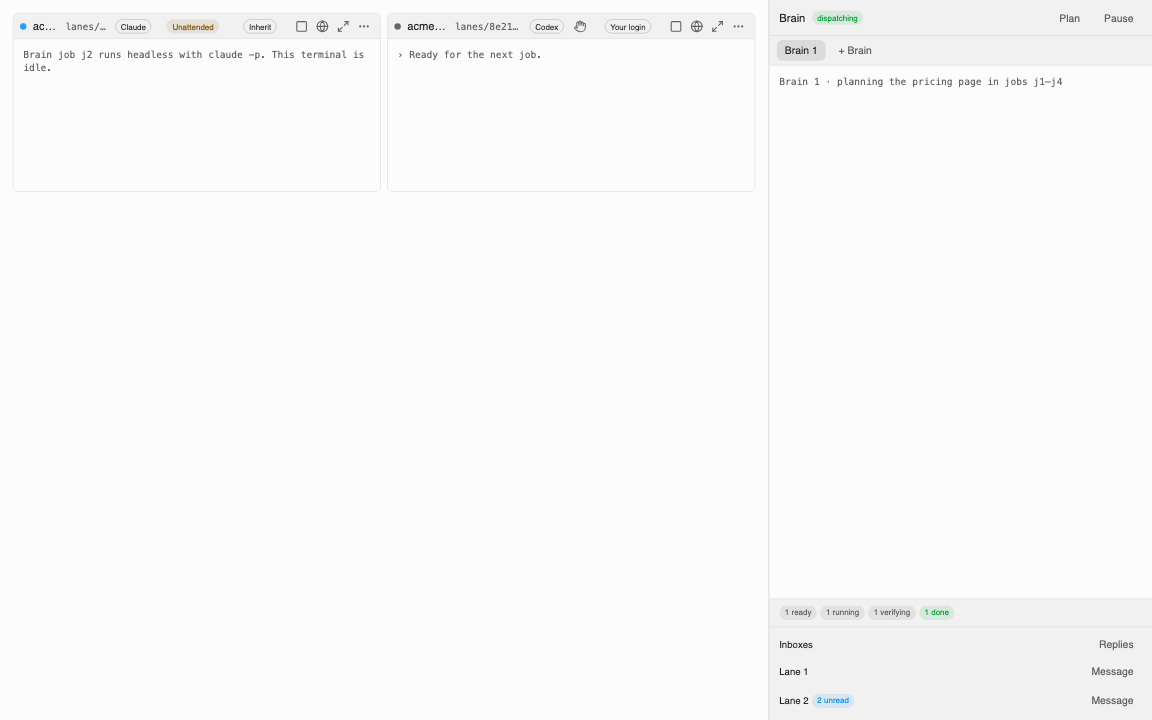
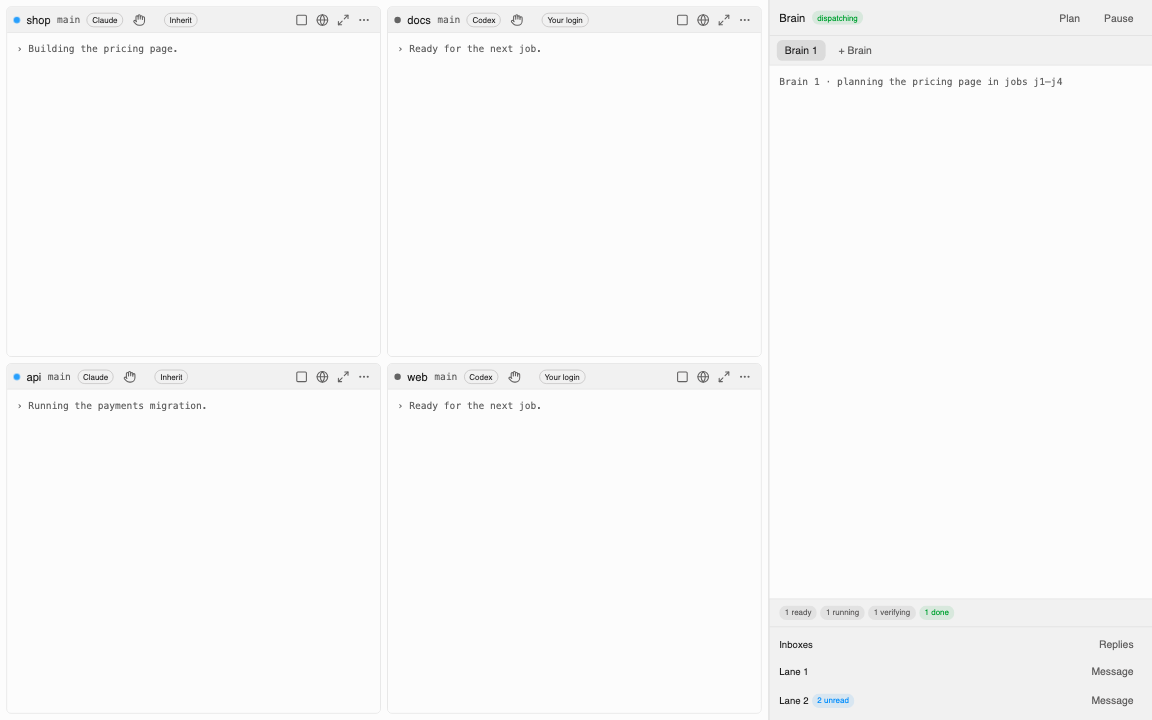
fix(screenshots): fill the Brain drawer backdrop with a real 2x2 lane grid
6e9d17e1b's corrected CSS made brain-drawer-plan-1440's two-lane backdrop
render as an accurate 2-column row, but that also exposed how little
vertical space two lanes fill: roughly 70% of the backdrop was blank.

lanes-grid-layout.tsx shows the real lane grid is always a fixed 2x2 of
slots, not a responsive column count, so two lanes were never the right
picture at 1440 in the first place. Add a FourLanes fixture that fills
all four slots, which is what the app actually renders here, and drops
the dead space to near zero.

At the narrower cell width of a real 2x2 slot there's little room next
to a lane's badges and icons, so acme-site/lanes-hash names (fine in
the wider lanes-run-mode-1440 cells) truncated to a couple of
characters. Tried loading the Inter Variable webfont the fixtures were
missing first, per the request to check; it didn't change the
truncation; dropped it. Fixed it the cheaper way instead: short
project/branch names (shop, docs, api, web / main) sized to actually
fit at that width, only for this fixture.

lanes-run-mode-1440's separate, already-flagged truncation (wider
cells, same acme-site/lanes/<hash> names) is untouched.

diff --git a/apps/emdash-desktop/src/renderer/tests/browser/daily-use-screenshots.test.tsx b/apps/emdash-desktop/src/renderer/tests/browser/daily-use-screenshots.test.tsx
@@ -214,6 +214,53 @@ function Lanes() {
   );
 }
 
+// The real lane grid is a fixed 2x2 of slots (lanes-grid-layout.tsx), not a
+// responsive column count. Four lanes here, not two, is what the app actually
+// shows at this width; two would leave half the grid empty. At a real 2x2
+// cell's width the header has little room beside its badges and icons, so
+// (unlike the wider lanes-run-mode-1440 cells) these use short project/branch
+// names that actually fit instead of truncating to a couple of characters.
+function FourLanes() {
+  return (
+    <div className="grid h-full grid-cols-2 grid-rows-2 gap-2 p-2">
+      <LaneShell
+        lane={lane({ projectName: 'shop', branch: 'main' })}
+        text="› Building the pricing page."
+        height="h-full"
+      />
+      <LaneShell
+        lane={lane({
+          laneId: 'lane-b',
+          slot: 1,
+          provider: 'codex',
+          status: 'idle',
+          projectName: 'docs',
+          branch: 'main',
+        })}
+        text="› Ready for the next job."
+        height="h-full"
+      />
+      <LaneShell
+        lane={lane({ laneId: 'lane-c', slot: 2, projectName: 'api', branch: 'main' })}
+        text="› Running the payments migration."
+        height="h-full"
+      />
+      <LaneShell
+        lane={lane({
+          laneId: 'lane-d',
+          slot: 3,
+          provider: 'codex',
+          status: 'idle',
+          projectName: 'web',
+          branch: 'main',
+        })}
+        text="› Ready for the next job."
+        height="h-full"
+      />
+    </div>
+  );
+}
+
 beforeAll(() => {
   (
     globalThis as typeof globalThis & { IS_REACT_ACT_ENVIRONMENT: boolean }
@@ -429,8 +476,8 @@ describe.skipIf(!import.meta.env.VITE_DAILY_SCREENSHOTS)('daily-use screenshots'
       1440,
       900,
       <div className="flex h-full">
-        <div className="flex-1 p-2">
-          <Lanes />
+        <div className="flex-1">
+          <FourLanes />
         </div>
         <div className="w-[30rem] border-l border-border">
           <BrainDrawer
